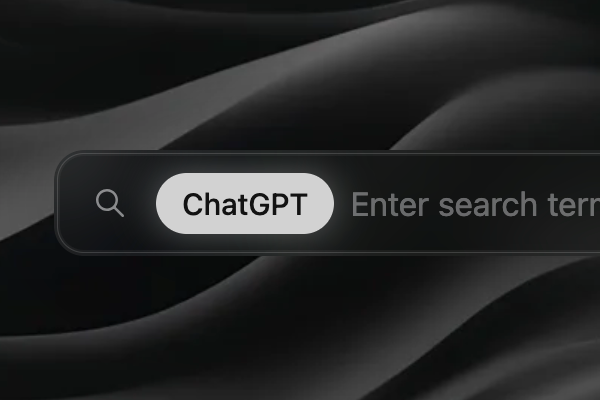
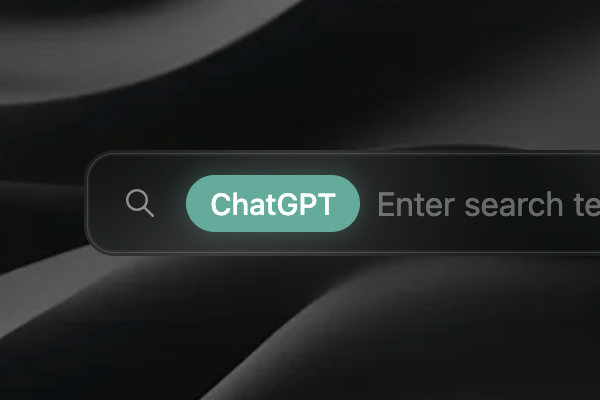
final 4 sure

diff --git a/chrome.css b/chrome.css
@@ -1,34 +1,17 @@
 #urlbar-search-mode-indicator {
-  display: inline-flex !important;
-  align-items: center !important;
-  padding: var(--mod-searchbadge-paddingvertical, 5px)
-    var(--mod-searchbadge-paddinghorizontal, 13px) !important;
+  padding: 5px 12px !important;
   border-radius: 9999px !important;
-  background-color: var(--mod-searchbadge-backgroundcolor, #d2d2d2) !important;
-  color: var(--mod-searchbadge-fontcolor, #121212) !important;
-  font-weight: 500 !important;
-  -moz-appearance: none !important;
-  background-image: none !important;
-  box-shadow: var(--mod-searchbadge-shadowstyle, 0 0 14px)
-    var(--mod-searchbadge-shadowcolor, #ffffff5e) !important;
-  font-size: var(--mod-searchbadge-fontsize, 15px) !important;
+  background: #64ab9c !important;
+  color: #ffffff !important;
+  font-weight: 500;
+  box-shadow: 0 0 14px #64ab9c5e;
+  font-size: 15px;
 }
 
-/* hide close button */
 #urlbar-search-mode-indicator-close.close-button {
-  display: none !important;
+  display: none;
 }
-/* remove 3px padding from parent */
+
 #urlbar-search-mode-indicator-title {
   padding: 0 !important;
-}
-
-/* hide pill by default */
-#urlbar-search-mode-indicator {
-  display: none !important;
-}
-
-/* show and style it only when in search mode */
-#urlbar[searchmode] #urlbar-search-mode-indicator {
-  display: inline-flex !important;
 }

diff --git a/README.md b/README.md
@@ -1,5 +1,5 @@
-# Better Search Engine Badges
+# Better Search Badges
 
-Improves the URL bar search engine badge styles with customizable settings.
+Improves the URL bar search engine badge styles with customizable padding, colors and shadow.
 
 ![ChatGPT badge](./images/chatgpt-badge.png)
